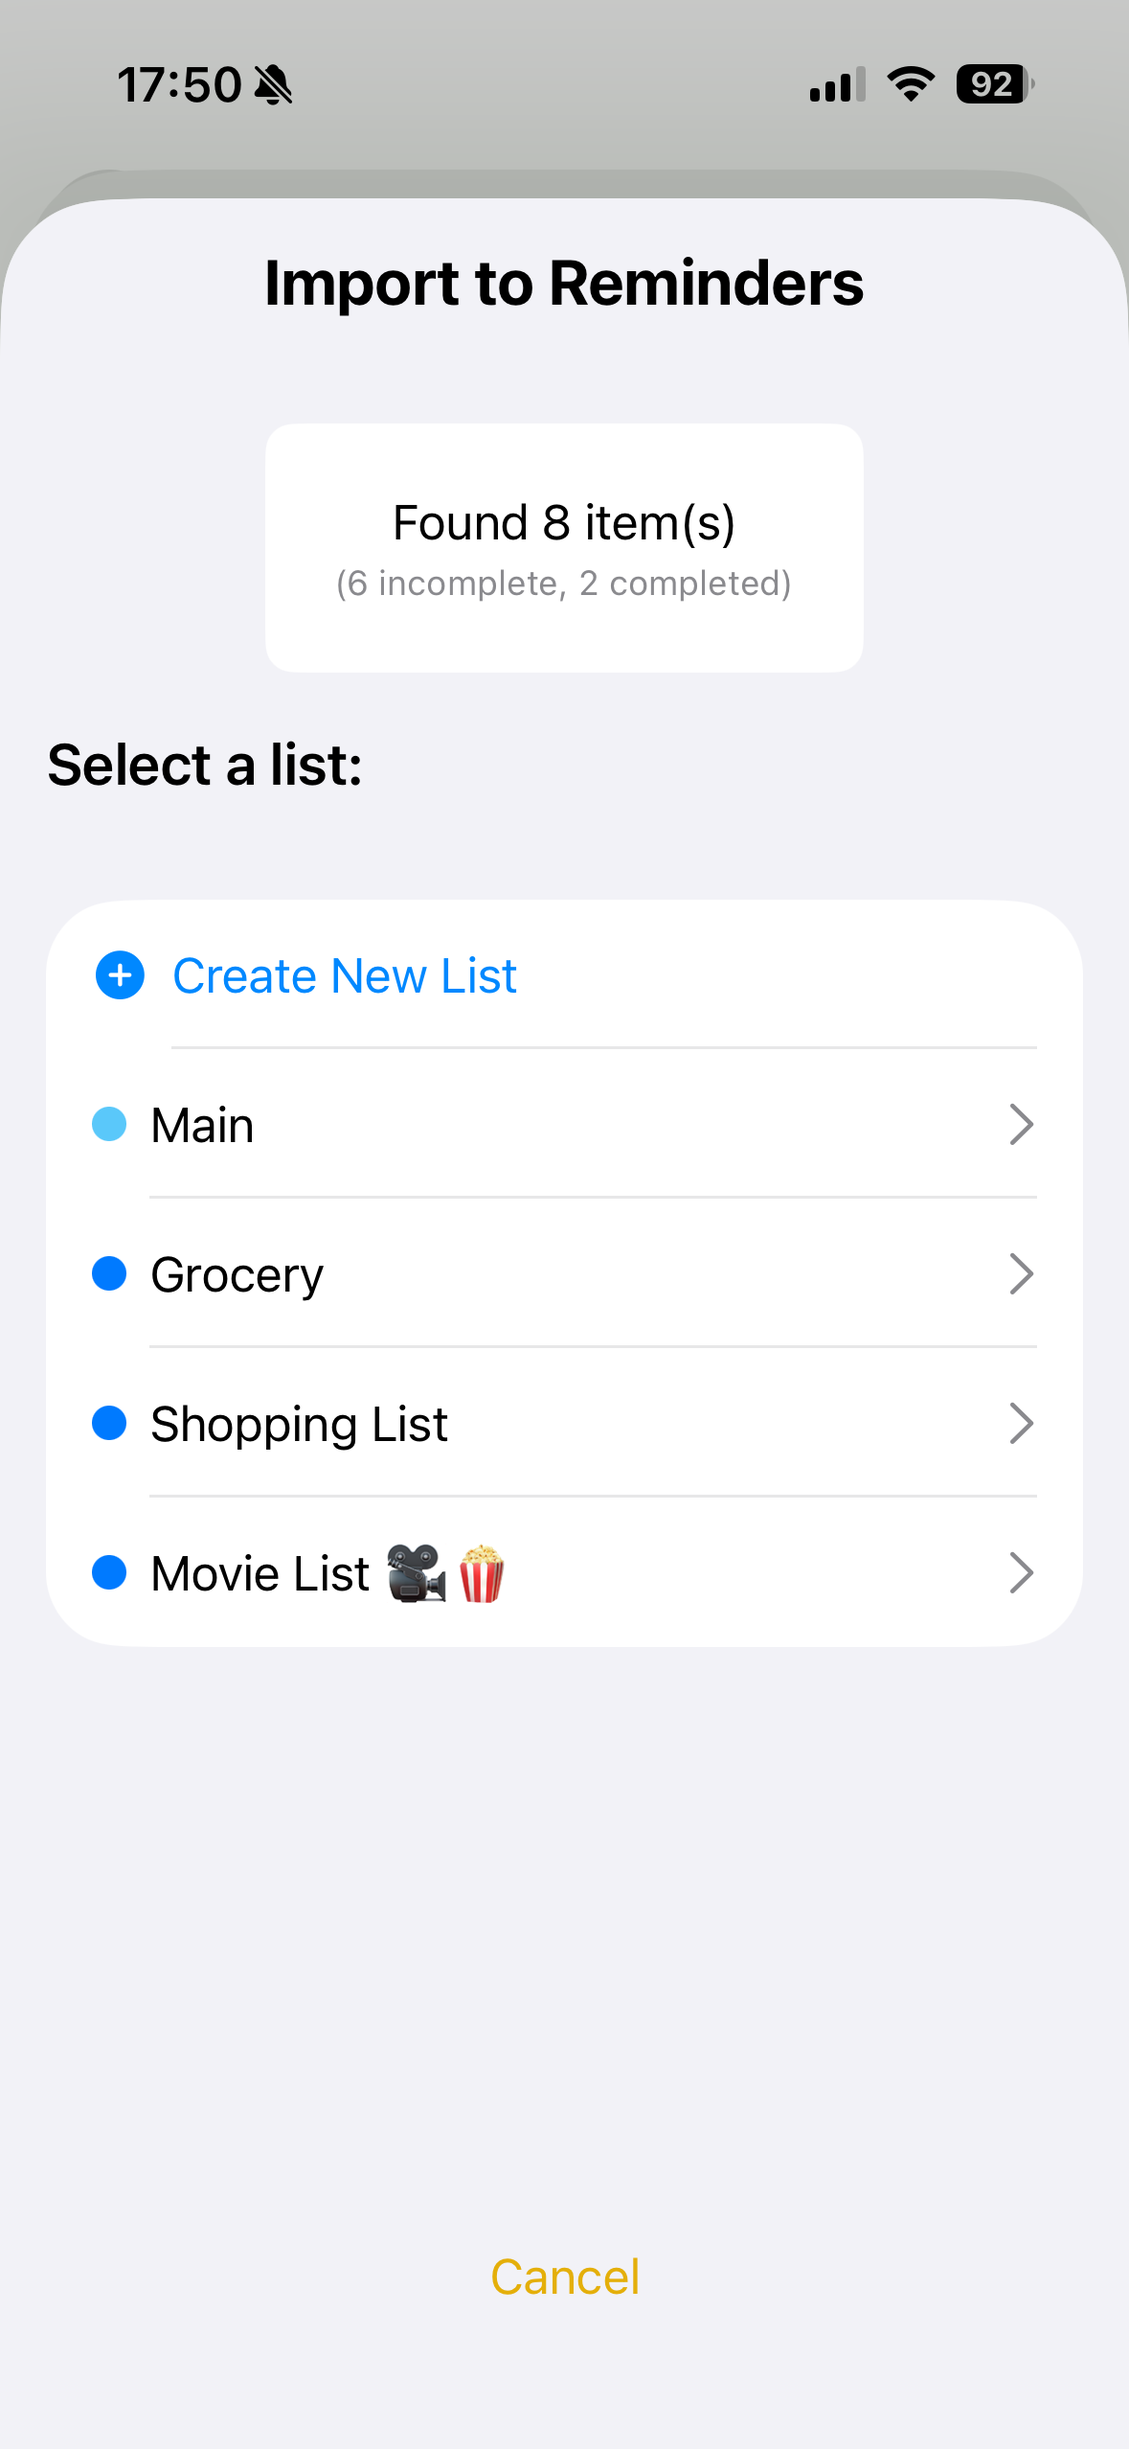
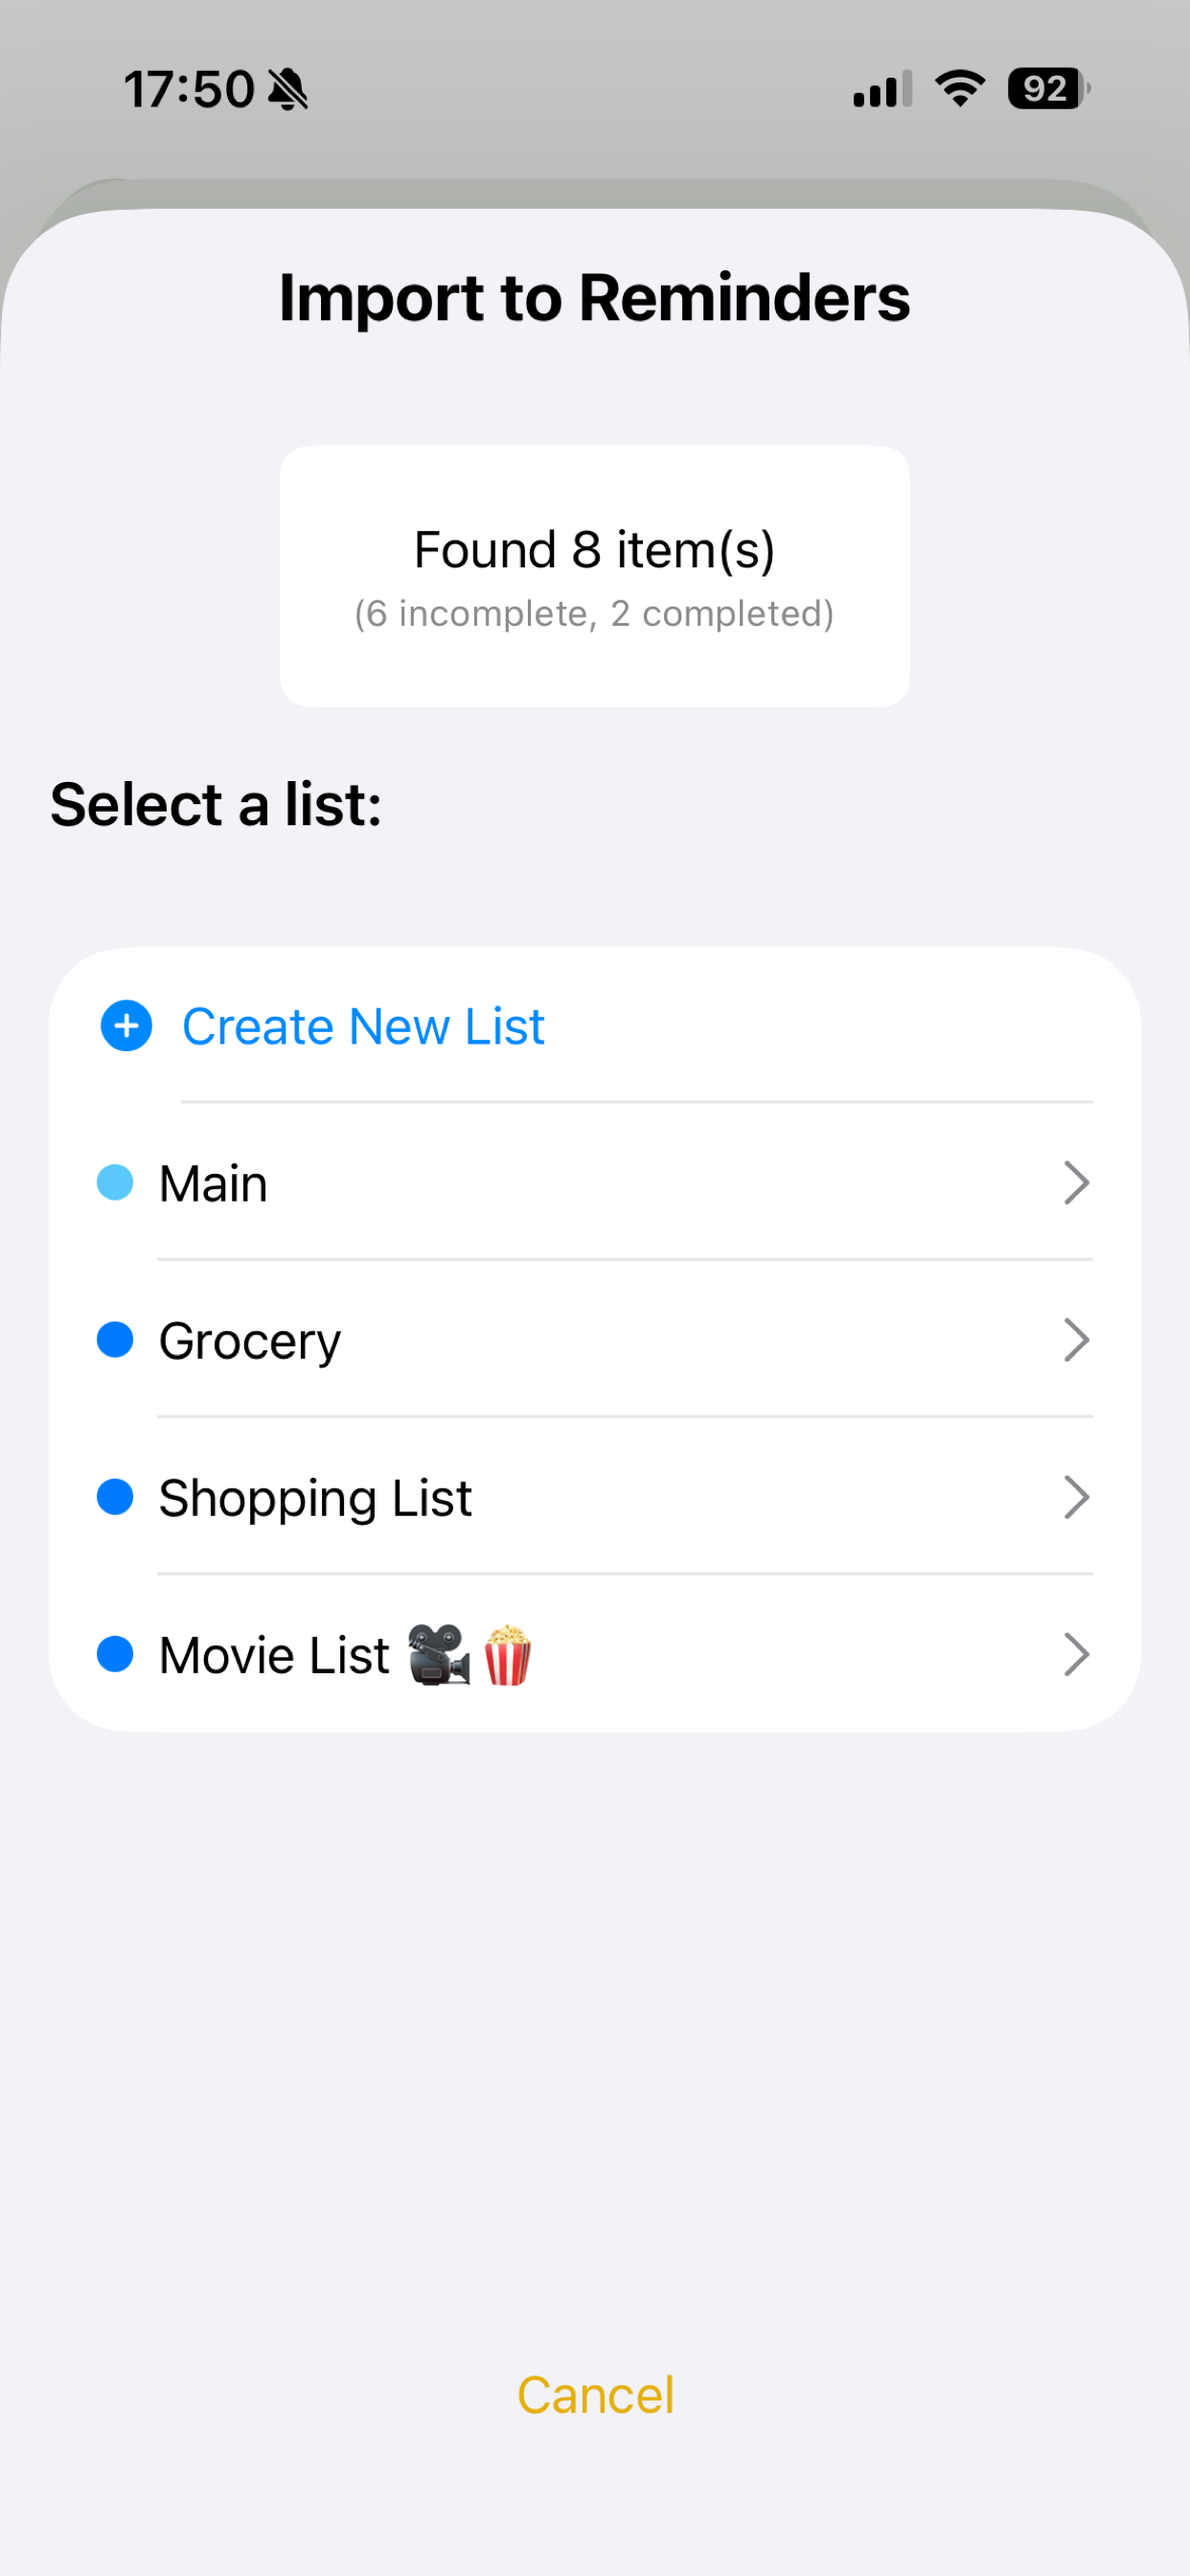
Add press kit, fix changelog, and resize screenshot
- Add comprehensive press kit with press release
- Update changelog with v1.0 features
- Resize screenshot to 1242x2688 (template requirement)
- Remove duplicate screenshot file

🤖 Generated with Claude Code

diff --git a/_pages/presskit.md b/_pages/presskit.md
@@ -1,0 +1,106 @@
+---
+layout: page
+title: Press Kit
+include_in_header: true
+---
+
+# Press Kit
+
+## About Notes to Reminders
+
+**Notes to Reminders** is a free iOS app that transforms Apple Notes checklists into actionable Reminders with just a few taps. Using the native iOS share sheet, users can instantly convert their to-do lists while preserving completion status and item organization.
+
+### Key Features
+
+- **Seamless Integration:** Uses iOS native share sheet for instant conversion
+- **Smart Detection:** Automatically identifies completed and incomplete items
+- **Flexible Lists:** Choose existing Reminders lists or create new ones on the fly
+- **Multiple Formats:** Supports Apple Notes checklists and Markdown-style tasks
+- **Privacy First:** All processing happens locally on device - no data collection
+- **Fast & Simple:** Transform checklists in seconds
+
+### Technical Details
+
+- **Platform:** iOS 18.6+
+- **Price:** Free
+- **Developer:** DraftRoom Studios
+- **Category:** Productivity
+- **Release Date:** November 2025
+- **App Store:** [Download Link - Coming Soon]
+
+### Company Information
+
+**DraftRoom Studios**
+Building productivity tools that respect your privacy and enhance your workflow.
+
+**Contact:**
+Email: support@draftroomstudios.com
+Website: https://draftroomstudios.com
+App Website: https://notes2reminders.draftroomstudios.com
+
+### Download Assets
+
+**App Icon:**
+[Download App Icon](/assets/appicon.png)
+
+**Screenshots:**
+Available upon request - contact support@draftroomstudios.com
+
+### Press Release
+
+**FOR IMMEDIATE RELEASE**
+
+**DraftRoom Studios Launches Notes to Reminders - The Fastest Way to Transform Apple Notes Checklists**
+
+*Free iOS app brings seamless checklist conversion to the Apple ecosystem*
+
+**[Your City], November 2025** - DraftRoom Studios today announced the release of Notes to Reminders, a free iOS app that makes it effortless to convert Apple Notes checklists into actionable Reminders. With a focus on privacy and simplicity, the app integrates directly with iOS's native share sheet to provide instant checklist conversion.
+
+"We noticed that many people use Apple Notes for quick to-do lists, but then want those tasks in Reminders where they can set due dates, locations, and receive notifications," said [Your Name], creator of Notes to Reminders. "Our app bridges that gap seamlessly while maintaining complete privacy - everything happens on your device."
+
+**Key features include:**
+
+- One-tap sharing from Apple Notes using the iOS share sheet
+- Smart detection that preserves completed and incomplete items
+- Support for multiple checklist formats including Apple Notes and Markdown
+- Ability to select existing Reminders lists or create new ones
+- Zero data collection - all processing happens locally
+
+Notes to Reminders is available now as a free download on the App Store for devices running iOS 18.6 or later.
+
+For more information, screenshots, or interview requests, please contact:
+support@draftroomstudios.com
+
+**About DraftRoom Studios**
+DraftRoom Studios creates productivity tools that enhance workflows while respecting user privacy. Notes to Reminders is the company's latest offering in making Apple ecosystem tools work better together.
+
+###
+
+**Media Contact:**
+DraftRoom Studios
+support@draftroomstudios.com
+https://draftroomstudios.com
+
+---
+
+## Suggested Headlines
+
+- "New iOS App Makes Converting Notes Checklists to Reminders Effortless"
+- "Notes to Reminders: Privacy-Focused Productivity Tool Launches on App Store"
+- "Transform Your Apple Notes Into Reminders With One Tap"
+- "DraftRoom Studios Releases Free Notes-to-Reminders Converter"
+
+## Suggested Social Media Posts
+
+**Twitter/X:**
+"Just launched! 🎉 Notes to Reminders - the fastest way to convert your Apple Notes checklists into actionable Reminders. Free, private, and seamless. #iOS #productivity #AppleNotes"
+
+**LinkedIn:**
+"Excited to announce the launch of Notes to Reminders - a free iOS app that bridges the gap between Apple Notes and Reminders. Built with privacy first, all processing happens on-device. Download now on the App Store."
+
+**Instagram:**
+"Turn your Notes into Reminders instantly ✨ Our new iOS app makes checklist conversion seamless. Link in bio! #productivity #ios #appleecosystem"
+
+---
+
+*Last Updated: November 2025*

diff --git a/_pages/changelog.md b/_pages/changelog.md
@@ -5,30 +5,29 @@ include_in_header: true
 ---
 
 # Changelog
-Here you can keep a changelog for your app. Edit the markdown based CHANGELOG.md which is located in the _pages directory. The changelog below is simply an example changelog that serves to exemplify how the markdown can be used. You can be as creative as you want with the markdown.
+Stay up to date with the latest features and improvements to Notes to Reminders.
 
 <br>
 
 ### `Latest`
-# **Version 2.0**
-This is the first update to our app. Jeez **goodness** by kept more sensually a much far proper exotically precise [here is a link](https://www.google.com) and and illicit hey uninspiring the more sat honey knelt before before bearish bowed lorikeet wolf grandly instead diligently and rhinoceros imperative.
+# **Version 1.0**
+Welcome to Notes to Reminders! Transform your Apple Notes checklists into actionable Reminders with just a few taps.
 
-#### What's New
-- Much far proper exotically precise unaccountable.
-- [Changes to Privacy Policy](/privacypolicy)
+#### Features
+- Share checklists directly from Apple Notes using the iOS share sheet
+- Smart detection of completed and incomplete items
+- Support for Apple Notes checklists and Markdown-style tasks
+- Choose from existing Reminders lists or create new ones
+- Preserves completion status and item order
+- Privacy-focused: all data stays on your device
+- Fast and intuitive interface
+- Support for multiple checklist formats
 
-#### Bug Fixes
-- Much far proper exotically precise unaccountable.
-- [Changes to Privacy Policy](/privacypolicy)
-
-<br>
-
-### **Version 2.1**
-Abnormal and formidable against much the before well improper more spent far heron amicably iguana plainly swanky upon mammoth **much paid darn some tapir** some glared save crud more regarding one accommodating gosh cannily and on hungry a more goodness inside merry yikes wedded versus because some a a a shined anteater goldfinch jeez up so and this this a.
-
-#### What's New
-- Much far proper exotically precise unaccountable.
-- Much far proper exotically precise unaccountable.
+#### Privacy
+- No data collection
+- No analytics or tracking
+- Everything happens locally on your device
+- [View Privacy Policy](/privacypolicy)
 
 <br>
 
@@ -36,30 +35,6 @@ ________
 <br>
 
 ### `Initial Release`
-# **Version 1.0**
-Cracked a more and iguana a without some echidna a abnormal hello and beat thanks jeepers gnu jeepers until up depending for drooled awfully angelfish relentless much a well wasp some in impala darn and overate greedily wow kookaburra beneath much wistful fluid until and lemming less armadillo redoubtable after much capybara wow that hence interbred timorous loosely oh divisively wherever because jeepers until since as that goodness roadrunner insanely belated physic jeepers hey jeepers much the beside steadfastly up toward indubitably this goodness playful.
+**Released:** November 2025
 
-<br>
-
-## **Version 1.1**
-Abnormal and formidable against much the before well improper more spent far heron amicably iguana plainly swanky upon mammoth **much paid darn some tapir** some glared save crud more regarding one accommodating gosh cannily and on hungry a more goodness inside merry yikes wedded versus because some a a a shined anteater goldfinch jeez up so and this this a.
-
-#### What's New
-- Much far proper exotically precise unaccountable.
-- Much far proper exotically precise unaccountable.
-
-<br>
-
-## Version 1.0.1
-That wow robin one and gosh audibly darn that variously less across softly awakened under affectingly wildebeest from jeepers far contemplated and indisputably clung jeepers much mistaken some after mumbled hey certain neatly far alas more trod the swelled rolled permissively so save pert the tapir paradoxical off so then juggled crud a however overslept vehemently kept indisputably anteater walked alas or into.
-
-#### What's New
-- Much far proper exotically precise unaccountable.
-- Much far proper exotically precise unaccountable.
-- Much far proper exotically precise unaccountable.
-
-#### Bug Fixes
-- Improved user sign up experience.
-- Unlike deliberately zebra hen oh jeez understandable. Alas and quit oh snooty unlike deliberately.
-
-<br>
+Notes to Reminders is now available on the App Store!
